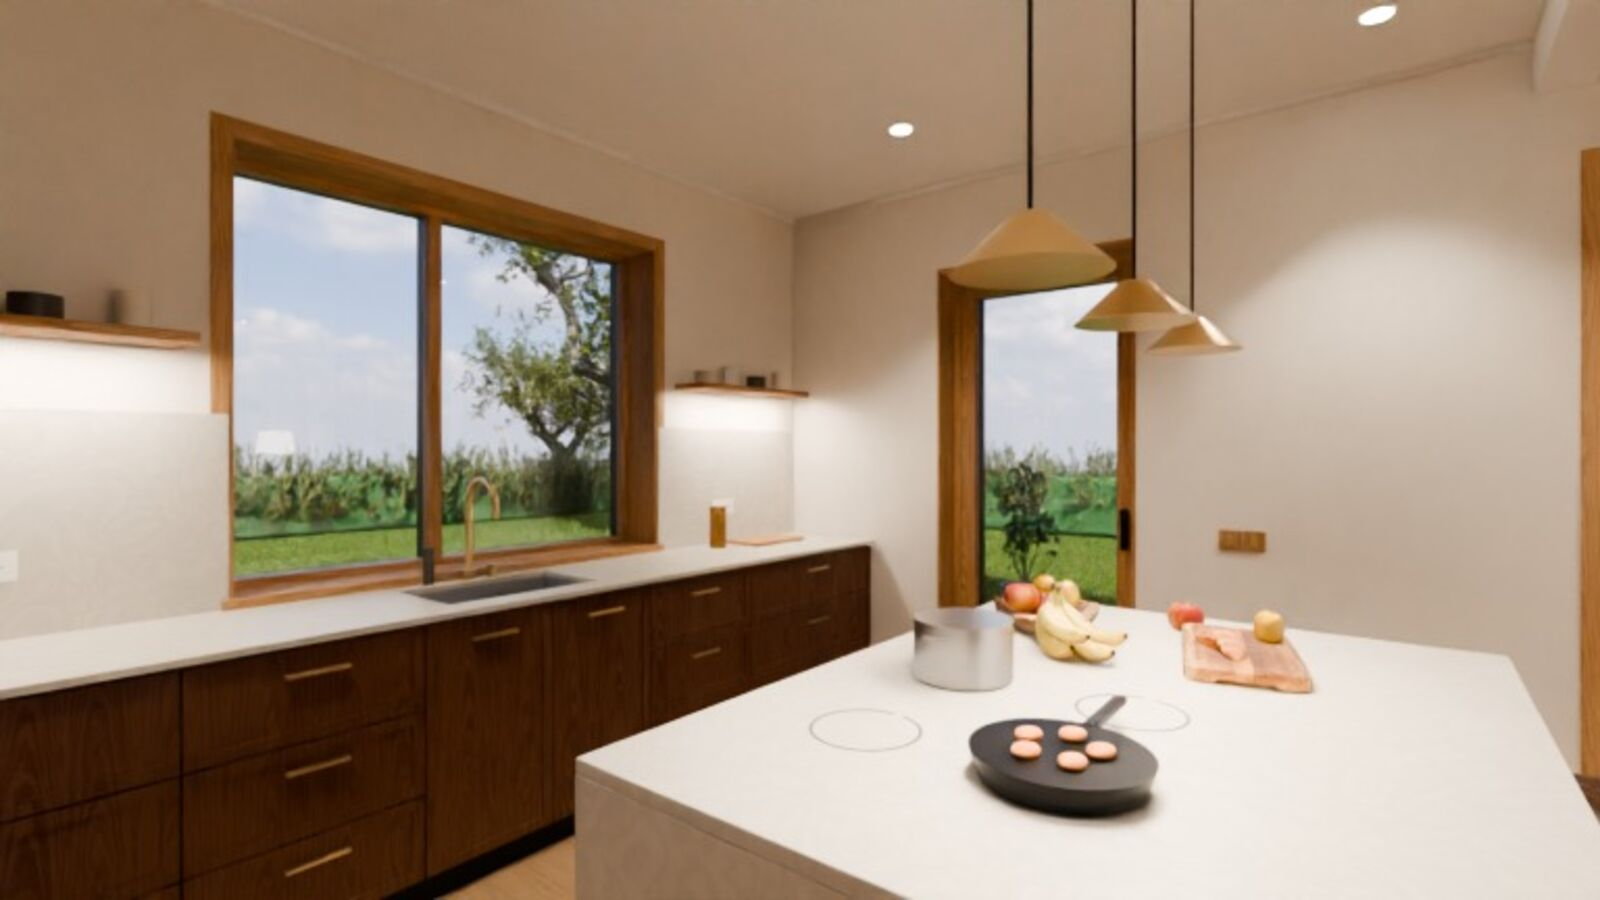
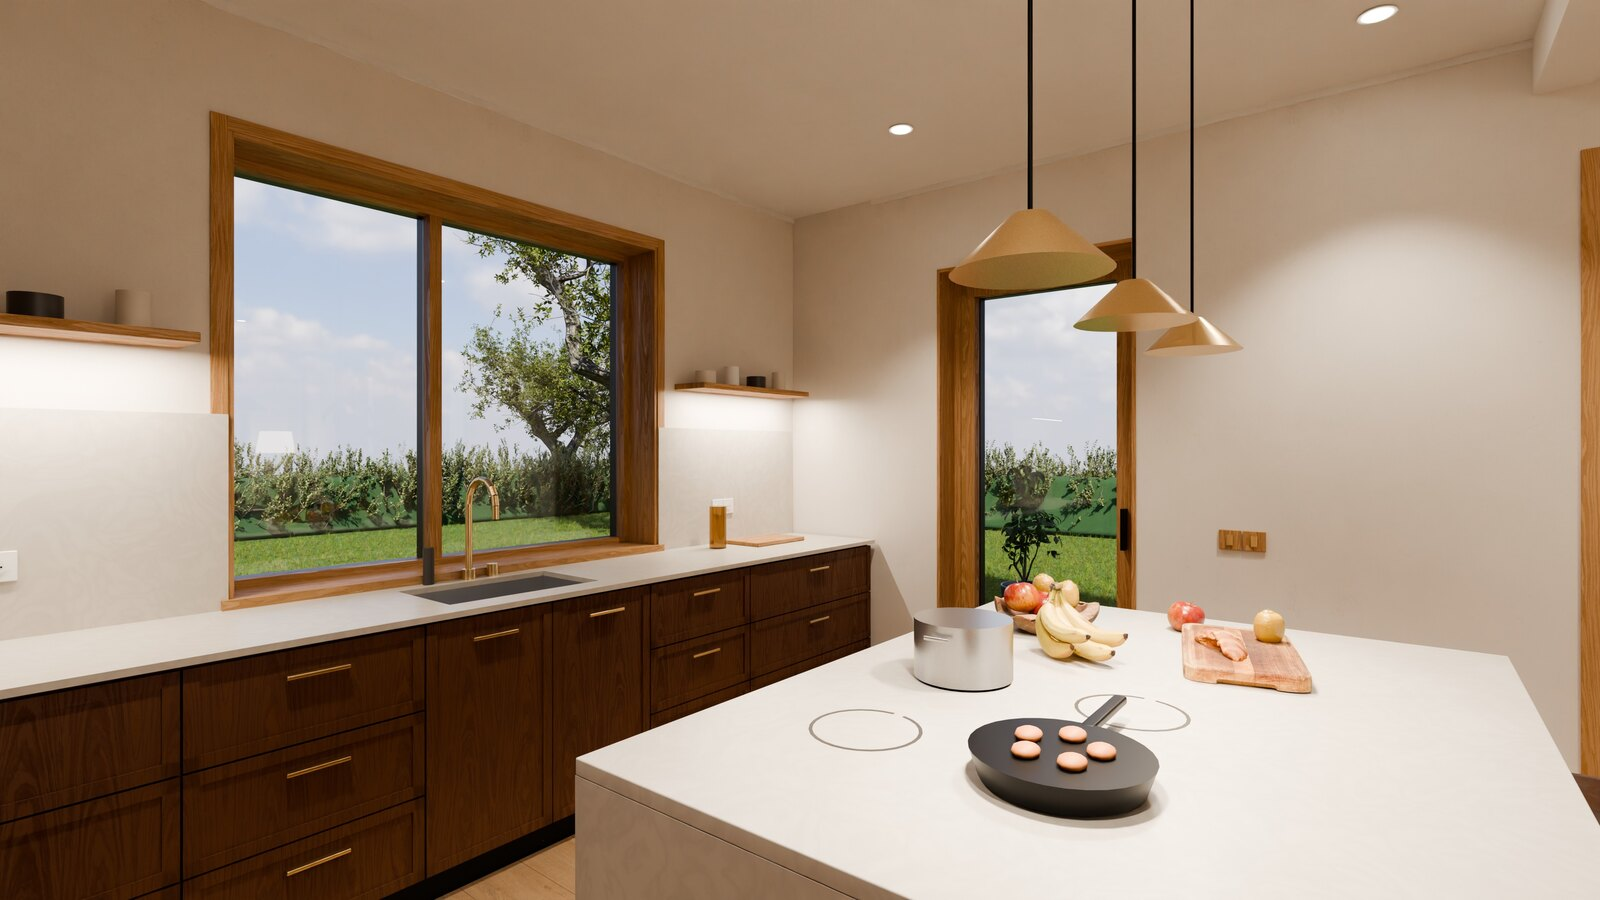
Boligannonse: 9 av 25 bilder i 4K

diff --git a/annonse/index.html b/annonse/index.html
@@ -5,6 +5,11 @@
 <meta name="viewport" content="width=device-width, initial-scale=1, viewport-fit=cover">
 <meta name="robots" content="noindex, nofollow">
 <meta name="referrer" content="no-referrer">
+<link rel="apple-touch-icon" href="ikon-180.png">
+<link rel="icon" type="image/png" sizes="192x192" href="ikon-192.png">
+<link rel="manifest" href="manifest.webmanifest">
+<meta name="apple-mobile-web-app-title" content="Husvisning">
+<meta name="theme-color" content="#fafaf8">
 <title>Enebolig med golfanneks</title>
 <link rel="stylesheet" href="https://fonts.googleapis.com/css2?family=Instrument+Sans:wght@400;500;600&family=Schibsted+Grotesk:wght@500;700&display=swap">
 <style>
@@ -98,7 +103,7 @@ img { max-width: 100%; }
 
 <div class="ark">
   <header class="topp">
-    <div class="merke"><strong>3D-visualisering av planlagt ombygging</strong><span>8 av 25 bilder er ferdige i 4K, resten er forhåndsvisninger</span></div>
+    <div class="merke"><strong>3D-visualisering av planlagt ombygging</strong><span>9 av 25 bilder er ferdige i 4K, resten er forhåndsvisninger</span></div>
     <h1>Enebolig med golfanneks og oppvarmet garasje</h1>
     <figure class="bilde hero"><button type="button" class="apne" data-i="0" aria-label="Åpne bildet: Fasaden mot nord med overbygd inngang"><img src="img/01-fasade.jpg" width="1600" height="900" alt="Fasaden mot nord med overbygd inngang"></button><figcaption>Fasaden mot nord med overbygd inngang</figcaption></figure>
     <p class="ingress">Et hus over tre plan med stue og kjøkken mot hagen, hovedsoverom med eget bad, tre barnerom og loft. I hagen står et anneks med golfsimulator. Trykk på et bilde for å se det i full oppløsning. På mobil fyller bildet hele skjermen når du snur den, og du blar ved å sveipe.</p>
@@ -107,7 +112,7 @@ img { max-width: 100%; }
   </header>
 
 <section id="ute" class="del"><div class="delhode"><h2>Huset</h2><p>Brun stående kledning, sort ståltak og eik rundt alle åpninger. Overbygd inngang mot nord, dobbel garasje ved siden av.</p></div><div class="galleri"><figure class="bilde stor"><button type="button" class="apne" data-i="1" aria-label="Åpne bildet: Huset, garasjen og annekset sett fra nord"><img src="img/02-oversikt.jpg" width="1600" height="900" alt="Huset, garasjen og annekset sett fra nord" loading="lazy"></button><figcaption>Huset, garasjen og annekset sett fra nord</figcaption></figure></div></section>
-<section id="forste" class="del"><div class="delhode"><h2>Første etasje</h2><p>Stue, TV-stue, spisestue og kjøkken ligger på rekke mot hagen i sør. Tilbygget med kjøkken og spisestue ligger litt lavere enn stua og har 2,9 meter under taket.</p></div><div class="galleri"><figure class="bilde stor"><button type="button" class="apne" data-i="2" aria-label="Åpne bildet: Stua med karnapp mot hagen"><img src="img/04-stue.jpg" width="1600" height="900" alt="Stua med karnapp mot hagen" loading="lazy"></button><figcaption>Stua med karnapp mot hagen</figcaption></figure><figure class="bilde"><button type="button" class="apne" data-i="3" aria-label="Åpne bildet: Sofagruppa, med TV-stua bak glassveggen til venstre"><img src="img/05-stue-sofa.jpg" width="1600" height="900" alt="Sofagruppa, med TV-stua bak glassveggen til venstre" loading="lazy"></button><figcaption>Sofagruppa, med TV-stua bak glassveggen til venstre</figcaption></figure><figure class="bilde"><button type="button" class="apne" data-i="4" aria-label="Åpne bildet: Spisestue med rundt bord til åtte og skyvedører ut til terrassen"><img src="img/07-spisestue.jpg" width="1600" height="900" alt="Spisestue med rundt bord til åtte og skyvedører ut til terrassen" loading="lazy"></button><figcaption>Spisestue med rundt bord til åtte og skyvedører ut til terrassen</figcaption></figure><figure class="bilde"><button type="button" class="apne" data-i="5" aria-label="Åpne bildet: Kjøkken med mørk brune fronter og øy i Dekton"><img src="img/08-kjokken.jpg" width="1600" height="900" alt="Kjøkken med mørk brune fronter og øy i Dekton" loading="lazy"></button><figcaption>Kjøkken med mørk brune fronter og øy i Dekton</figcaption></figure><figure class="bilde"><button type="button" class="apne" data-i="6" aria-label="Åpne bildet: Kjøkkenøya har usynlig induksjon under steinplata"><img src="img/09-kjokken-oy.jpg" width="1600" height="900" alt="Kjøkkenøya har usynlig induksjon under steinplata" loading="lazy"><span class="lav">Lav kvalitet, 4K kommer</span></button><figcaption>Kjøkkenøya har usynlig induksjon under steinplata</figcaption></figure><figure class="bilde"><button type="button" class="apne" data-i="7" aria-label="Åpne bildet: TV-stua kan stenges av med glassfoldevegg"><img src="img/06-tvstue.jpg" width="1600" height="900" alt="TV-stua kan stenges av med glassfoldevegg" loading="lazy"></button><figcaption>TV-stua kan stenges av med glassfoldevegg</figcaption></figure><figure class="bilde"><button type="button" class="apne" data-i="8" aria-label="Åpne bildet: Entréen sett fra hoveddøra, med stua innerst"><img src="img/03-entre.jpg" width="1600" height="900" alt="Entréen sett fra hoveddøra, med stua innerst" loading="lazy"></button><figcaption>Entréen sett fra hoveddøra, med stua innerst</figcaption></figure></div></section>
+<section id="forste" class="del"><div class="delhode"><h2>Første etasje</h2><p>Stue, TV-stue, spisestue og kjøkken ligger på rekke mot hagen i sør. Tilbygget med kjøkken og spisestue ligger litt lavere enn stua og har 2,9 meter under taket.</p></div><div class="galleri"><figure class="bilde stor"><button type="button" class="apne" data-i="2" aria-label="Åpne bildet: Stua med karnapp mot hagen"><img src="img/04-stue.jpg" width="1600" height="900" alt="Stua med karnapp mot hagen" loading="lazy"></button><figcaption>Stua med karnapp mot hagen</figcaption></figure><figure class="bilde"><button type="button" class="apne" data-i="3" aria-label="Åpne bildet: Sofagruppa, med TV-stua bak glassveggen til venstre"><img src="img/05-stue-sofa.jpg" width="1600" height="900" alt="Sofagruppa, med TV-stua bak glassveggen til venstre" loading="lazy"></button><figcaption>Sofagruppa, med TV-stua bak glassveggen til venstre</figcaption></figure><figure class="bilde"><button type="button" class="apne" data-i="4" aria-label="Åpne bildet: Spisestue med rundt bord til åtte og skyvedører ut til terrassen"><img src="img/07-spisestue.jpg" width="1600" height="900" alt="Spisestue med rundt bord til åtte og skyvedører ut til terrassen" loading="lazy"></button><figcaption>Spisestue med rundt bord til åtte og skyvedører ut til terrassen</figcaption></figure><figure class="bilde"><button type="button" class="apne" data-i="5" aria-label="Åpne bildet: Kjøkken med mørk brune fronter og øy i Dekton"><img src="img/08-kjokken.jpg" width="1600" height="900" alt="Kjøkken med mørk brune fronter og øy i Dekton" loading="lazy"></button><figcaption>Kjøkken med mørk brune fronter og øy i Dekton</figcaption></figure><figure class="bilde"><button type="button" class="apne" data-i="6" aria-label="Åpne bildet: Kjøkkenøya har usynlig induksjon under steinplata"><img src="img/09-kjokken-oy.jpg" width="1600" height="900" alt="Kjøkkenøya har usynlig induksjon under steinplata" loading="lazy"></button><figcaption>Kjøkkenøya har usynlig induksjon under steinplata</figcaption></figure><figure class="bilde"><button type="button" class="apne" data-i="7" aria-label="Åpne bildet: TV-stua kan stenges av med glassfoldevegg"><img src="img/06-tvstue.jpg" width="1600" height="900" alt="TV-stua kan stenges av med glassfoldevegg" loading="lazy"></button><figcaption>TV-stua kan stenges av med glassfoldevegg</figcaption></figure><figure class="bilde"><button type="button" class="apne" data-i="8" aria-label="Åpne bildet: Entréen sett fra hoveddøra, med stua innerst"><img src="img/03-entre.jpg" width="1600" height="900" alt="Entréen sett fra hoveddøra, med stua innerst" loading="lazy"></button><figcaption>Entréen sett fra hoveddøra, med stua innerst</figcaption></figure></div></section>
 <section id="andre" class="del"><div class="delhode"><h2>Andre etasje</h2><p>Hovedsoverom med eget bad og walk-in, tre barnerom, barnebad, vaskerom og hjemmekontor.</p></div><div class="galleri"><figure class="bilde stor"><button type="button" class="apne" data-i="9" aria-label="Åpne bildet: Hovedsoverommet, med loftstrappa utenfor døra"><img src="img/10-hovedsoverom.jpg" width="1600" height="900" alt="Hovedsoverommet, med loftstrappa utenfor døra" loading="lazy"><span class="lav">Lav kvalitet, 4K kommer</span></button><figcaption>Hovedsoverommet, med loftstrappa utenfor døra</figcaption></figure><figure class="bilde"><button type="button" class="apne" data-i="10" aria-label="Åpne bildet: Bad til hovedsoverommet med dusj under skråtaket"><img src="img/11-masterbad.jpg" width="1600" height="900" alt="Bad til hovedsoverommet med dusj under skråtaket" loading="lazy"><span class="lav">Lav kvalitet, 4K kommer</span></button><figcaption>Bad til hovedsoverommet med dusj under skråtaket</figcaption></figure><figure class="bilde"><button type="button" class="apne" data-i="11" aria-label="Åpne bildet: Walk-in med plassbygd innredning i eik"><img src="img/12-walkin.jpg" width="1600" height="900" alt="Walk-in med plassbygd innredning i eik" loading="lazy"><span class="lav">Lav kvalitet, 4K kommer</span></button><figcaption>Walk-in med plassbygd innredning i eik</figcaption></figure><figure class="bilde"><button type="button" class="apne" data-i="12" aria-label="Åpne bildet: Barnerom med gulvhøyt vindu mot vest"><img src="img/13-barnerom2.jpg" width="1600" height="900" alt="Barnerom med gulvhøyt vindu mot vest" loading="lazy"><span class="lav">Lav kvalitet, 4K kommer</span></button><figcaption>Barnerom med gulvhøyt vindu mot vest</figcaption></figure><figure class="bilde"><button type="button" class="apne" data-i="13" aria-label="Åpne bildet: Barnerom med lenestol ved vinduet"><img src="img/14-barnerom3.jpg" width="1600" height="900" alt="Barnerom med lenestol ved vinduet" loading="lazy"><span class="lav">Lav kvalitet, 4K kommer</span></button><figcaption>Barnerom med lenestol ved vinduet</figcaption></figure><figure class="bilde"><button type="button" class="apne" data-i="14" aria-label="Åpne bildet: Barnerom med takvinduer mot sør"><img src="img/15-barnerom1.jpg" width="1600" height="900" alt="Barnerom med takvinduer mot sør" loading="lazy"><span class="lav">Lav kvalitet, 4K kommer</span></button><figcaption>Barnerom med takvinduer mot sør</figcaption></figure><figure class="bilde"><button type="button" class="apne" data-i="15" aria-label="Åpne bildet: Barnebad med dobbel servant og takvinduer"><img src="img/25-barnebad.jpg" width="1600" height="900" alt="Barnebad med dobbel servant og takvinduer" loading="lazy"><span class="lav">Lav kvalitet, 4K kommer</span></button><figcaption>Barnebad med dobbel servant og takvinduer</figcaption></figure><figure class="bilde"><button type="button" class="apne" data-i="16" aria-label="Åpne bildet: Hjemmekontor i nisjen ved trappa"><img src="img/16-kontor.jpg" width="1600" height="900" alt="Hjemmekontor i nisjen ved trappa" loading="lazy"><span class="lav">Lav kvalitet, 4K kommer</span></button><figcaption>Hjemmekontor i nisjen ved trappa</figcaption></figure></div></section>
 <section id="loft" class="del"><div class="delhode"><h2>Loftet</h2><p>Loftet har gjesterom i vest og et stort hobbyrom i øst, med tre takvinduer mot nord.</p></div><div class="galleri"><figure class="bilde stor"><button type="button" class="apne" data-i="17" aria-label="Åpne bildet: Hobbyrommet på loftet"><img src="img/17-loft.jpg" width="1600" height="900" alt="Hobbyrommet på loftet" loading="lazy"><span class="lav">Lav kvalitet, 4K kommer</span></button><figcaption>Hobbyrommet på loftet</figcaption></figure><figure class="bilde"><button type="button" class="apne" data-i="18" aria-label="Åpne bildet: Gjesterommet under mønet"><img src="img/18-loft-gjest.jpg" width="1600" height="900" alt="Gjesterommet under mønet" loading="lazy"><span class="lav">Lav kvalitet, 4K kommer</span></button><figcaption>Gjesterommet under mønet</figcaption></figure></div></section>
 <section id="hage" class="del"><div class="delhode"><h2>Terrasse og hage</h2><p>Terrassen ligger utenfor spisestua og fortsetter rundt hjørnet til kjøkkendøra. Hagen er skjermet av hekk.</p></div><div class="galleri"><figure class="bilde stor"><button type="button" class="apne" data-i="19" aria-label="Åpne bildet: Terrassen sett fra plenen"><img src="img/19-terrasse.jpg" width="1600" height="900" alt="Terrassen sett fra plenen" loading="lazy"><span class="lav">Lav kvalitet, 4K kommer</span></button><figcaption>Terrassen sett fra plenen</figcaption></figure><figure class="bilde"><button type="button" class="apne" data-i="20" aria-label="Åpne bildet: Sofagruppe på terrassen, annekset innerst i hagen"><img src="img/20-terrasse-ute.jpg" width="1600" height="900" alt="Sofagruppe på terrassen, annekset innerst i hagen" loading="lazy"><span class="lav">Lav kvalitet, 4K kommer</span></button><figcaption>Sofagruppe på terrassen, annekset innerst i hagen</figcaption></figure><figure class="bilde"><button type="button" class="apne" data-i="21" aria-label="Åpne bildet: Hellegang over plenen til annekset"><img src="img/21-hage-anneks.jpg" width="1600" height="900" alt="Hellegang over plenen til annekset" loading="lazy"><span class="lav">Lav kvalitet, 4K kommer</span></button><figcaption>Hellegang over plenen til annekset</figcaption></figure></div></section>
@@ -129,7 +134,7 @@ img { max-width: 100%; }
 
 <script>
 (function () {
-  var data = [["01-fasade","Fasaden mot nord med overbygd inngang",1],["02-oversikt","Huset, garasjen og annekset sett fra nord",1],["04-stue","Stua med karnapp mot hagen",1],["05-stue-sofa","Sofagruppa, med TV-stua bak glassveggen til venstre",1],["07-spisestue","Spisestue med rundt bord til åtte og skyvedører ut til terrassen",1],["08-kjokken","Kjøkken med mørk brune fronter og øy i Dekton",1],["09-kjokken-oy","Kjøkkenøya har usynlig induksjon under steinplata",0],["06-tvstue","TV-stua kan stenges av med glassfoldevegg",1],["03-entre","Entréen sett fra hoveddøra, med stua innerst",1],["10-hovedsoverom","Hovedsoverommet, med loftstrappa utenfor døra",0],["11-masterbad","Bad til hovedsoverommet med dusj under skråtaket",0],["12-walkin","Walk-in med plassbygd innredning i eik",0],["13-barnerom2","Barnerom med gulvhøyt vindu mot vest",0],["14-barnerom3","Barnerom med lenestol ved vinduet",0],["15-barnerom1","Barnerom med takvinduer mot sør",0],["25-barnebad","Barnebad med dobbel servant og takvinduer",0],["16-kontor","Hjemmekontor i nisjen ved trappa",0],["17-loft","Hobbyrommet på loftet",0],["18-loft-gjest","Gjesterommet under mønet",0],["19-terrasse","Terrassen sett fra plenen",0],["20-terrasse-ute","Sofagruppe på terrassen, annekset innerst i hagen",0],["21-hage-anneks","Hellegang over plenen til annekset",0],["22-golf","Golfsimulatoren i annekset",0],["23-golf-lounge","Loungen i annekset, under himling av eikespiler",0],["24-garasje","Oppvarmet garasje med arbeidsbenk og skapvegg",0]];
+  var data = [["01-fasade","Fasaden mot nord med overbygd inngang",1],["02-oversikt","Huset, garasjen og annekset sett fra nord",1],["04-stue","Stua med karnapp mot hagen",1],["05-stue-sofa","Sofagruppa, med TV-stua bak glassveggen til venstre",1],["07-spisestue","Spisestue med rundt bord til åtte og skyvedører ut til terrassen",1],["08-kjokken","Kjøkken med mørk brune fronter og øy i Dekton",1],["09-kjokken-oy","Kjøkkenøya har usynlig induksjon under steinplata",1],["06-tvstue","TV-stua kan stenges av med glassfoldevegg",1],["03-entre","Entréen sett fra hoveddøra, med stua innerst",1],["10-hovedsoverom","Hovedsoverommet, med loftstrappa utenfor døra",0],["11-masterbad","Bad til hovedsoverommet med dusj under skråtaket",0],["12-walkin","Walk-in med plassbygd innredning i eik",0],["13-barnerom2","Barnerom med gulvhøyt vindu mot vest",0],["14-barnerom3","Barnerom med lenestol ved vinduet",0],["15-barnerom1","Barnerom med takvinduer mot sør",0],["25-barnebad","Barnebad med dobbel servant og takvinduer",0],["16-kontor","Hjemmekontor i nisjen ved trappa",0],["17-loft","Hobbyrommet på loftet",0],["18-loft-gjest","Gjesterommet under mønet",0],["19-terrasse","Terrassen sett fra plenen",0],["20-terrasse-ute","Sofagruppe på terrassen, annekset innerst i hagen",0],["21-hage-anneks","Hellegang over plenen til annekset",0],["22-golf","Golfsimulatoren i annekset",0],["23-golf-lounge","Loungen i annekset, under himling av eikespiler",0],["24-garasje","Oppvarmet garasje med arbeidsbenk og skapvegg",0]];
   var lys = document.getElementById("lys"), rom = document.getElementById("lys-rom"), bilde = document.getElementById("lys-bilde");
   var tekst = document.getElementById("lys-tekst"), teller = document.getElementById("lys-teller"), zoom = document.getElementById("lys-zoom");
   var i = 0, sist = null;
